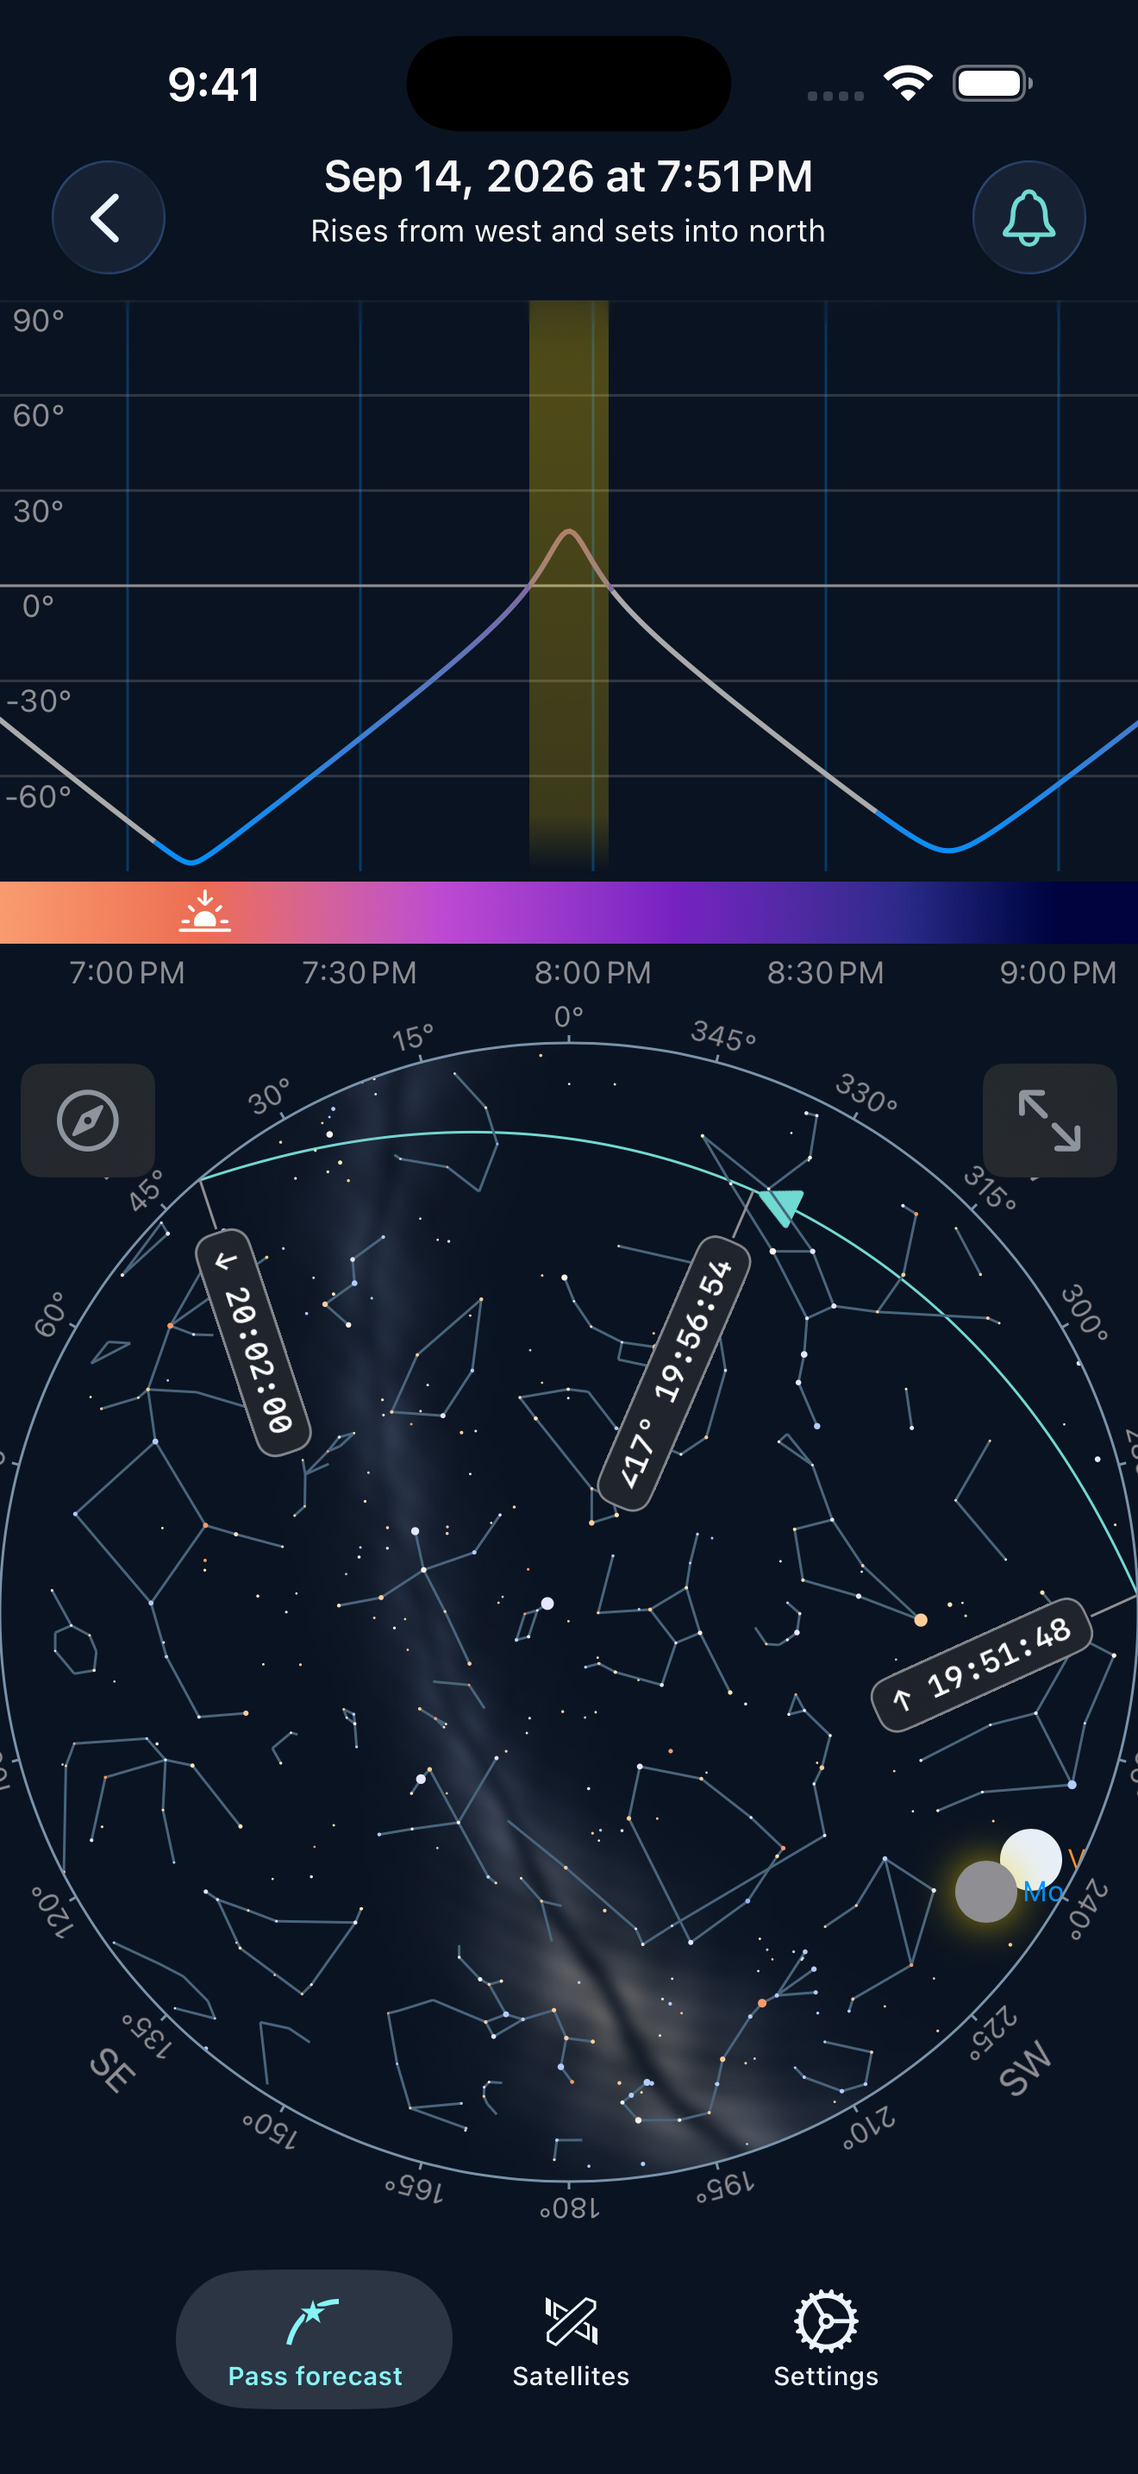
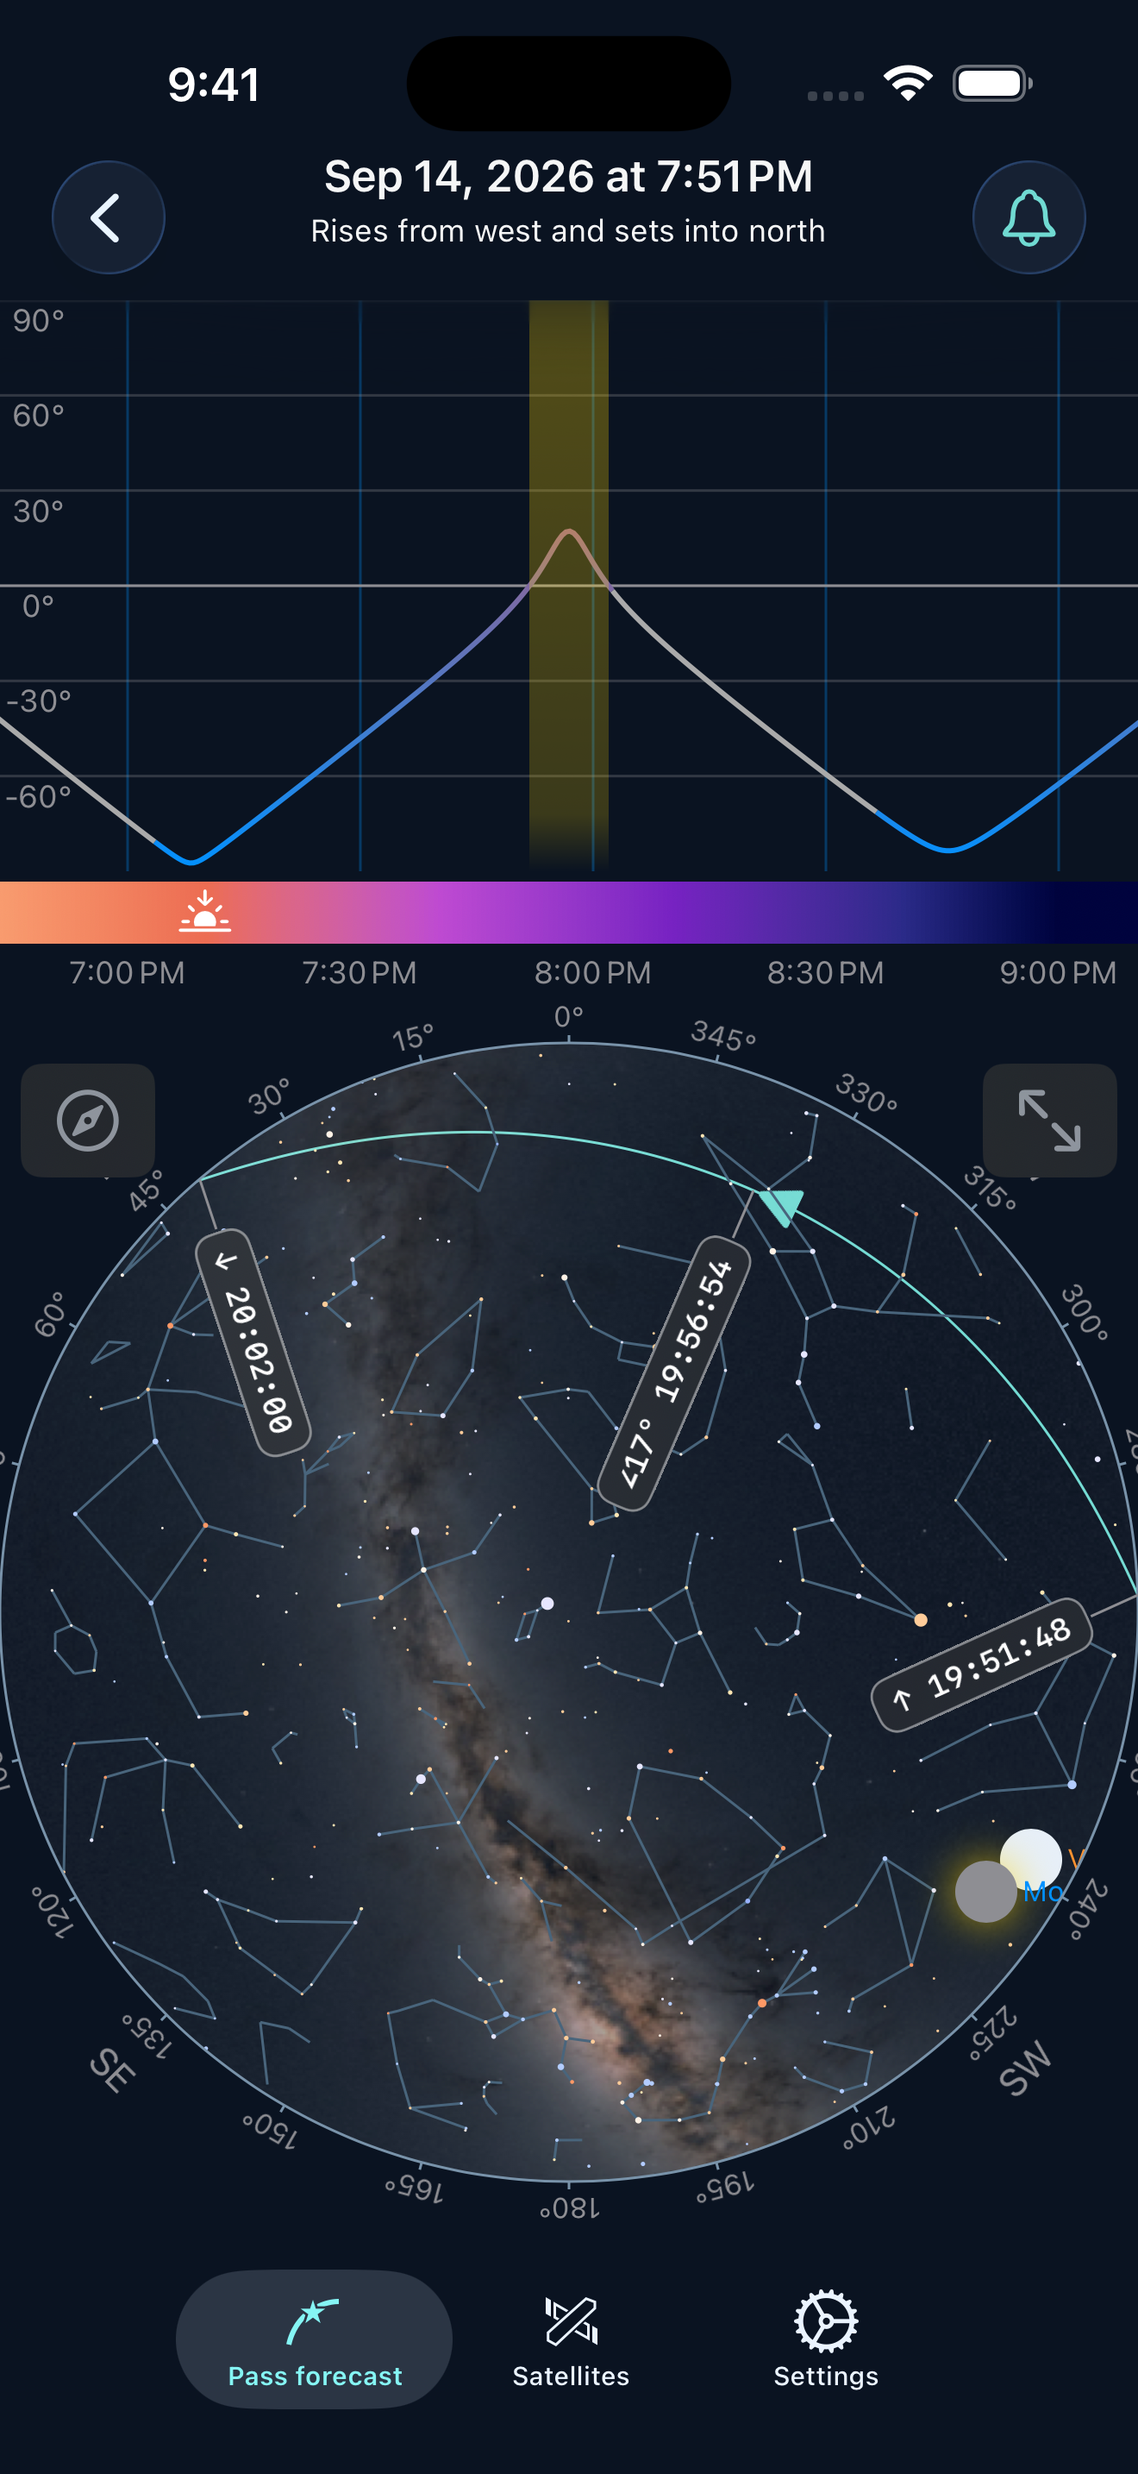
Project NASA Gaia Milky Way texture onto sky charts

Changed region(s): [[0.1864, 0.4034, 0.8386, 0.8999]]

diff --git a/Frameworks/SatelliteForecast/Impl/Sources/Views/SkyChart/MilkyWayBackground.swift b/Frameworks/SatelliteForecast/Impl/Sources/Views/SkyChart/MilkyWayBackground.swift
@@ -1,9 +1,10 @@
 import UIKit
+import ImageIO
 import simd
 import SatelliteKit
 
-/// A starless, illustrative diffuse sky in Galactic coordinates. This is not a
-/// photometric survey: only its celestial registration is astronomical.
+/// NASA/Goddard SVS Gaia background, without the separate bright-star layer.
+/// Faint source stars remain; this is not a model of observing visibility.
 enum MilkyWayBackground {
     // ICRS → Galactic rotation (Hipparcos canonical pole/node angles).
     // Reference: https://github.com/liberfa/erfa/blob/master/src/icrs2g.c
@@ -36,29 +37,66 @@ enum MilkyWayBackground {
         }
     }
 
-    /// Smooth, periodic texture on the celestial sphere: no points or baked-in stars.
-    static func radiance(_ direction: SIMD3<Double>) -> (intensity: Double, warmth: Double) {
-        let l = atan2(direction.y, direction.x)
-        let b = asin(max(-1, min(1, direction.z)))
-        let core = exp(-pow(l / 0.55, 2) - pow(b / 0.23, 2))
-        let broad = exp(-pow(b / 0.19, 2))
-        let narrow = exp(-pow(b / 0.075, 2))
-        // Integer longitude frequencies keep the ±π seam continuous.
-        let clouds = 0.70 + 0.16 * sin(9 * l + 13 * b + 1.8 * sin(3 * l))
-            + 0.09 * sin(23 * l - 31 * b + sin(7 * l))
-            + 0.05 * sin(47 * l + 67 * b)
-        let laneLatitude = b - 0.022 * sin(3 * l) - 0.012 * sin(11 * l)
-        let dust = exp(-pow(laneLatitude / 0.028, 2)) * (0.55 + 0.20 * cos(2 * l))
-        let glow = (0.20 * broad + 0.38 * narrow + 0.62 * core) * clouds * (1 - dust)
-        return (min(1, max(0, glow)), core)
+    /// NASA's Galactic plate carrée: center l=0, longitude increases leftward.
+    static func textureCoordinates(_ direction: SIMD3<Double>) -> SIMD2<Double> {
+        let u = 0.5 - atan2(direction.y, direction.x) / (2 * .pi)
+        return SIMD2(u - floor(u), 0.5 - asin(max(-1, min(1, direction.z))) / .pi)
     }
+
+    struct Texture {
+        let width: Int
+        let height: Int
+        let pixels: [UInt8]
+
+        init?(image: CGImage) {
+            let width = image.width
+            let height = image.height
+            self.width = width
+            self.height = height
+            var bytes = [UInt8](repeating: 0, count: width * height * 4)
+            let decoded = bytes.withUnsafeMutableBytes { buffer -> Bool in
+                guard let context = CGContext(data: buffer.baseAddress, width: width, height: height,
+                    bitsPerComponent: 8, bytesPerRow: width * 4,
+                    space: CGColorSpace(name: CGColorSpace.sRGB)!,
+                    bitmapInfo: CGImageAlphaInfo.premultipliedLast.rawValue) else { return false }
+                context.draw(image, in: CGRect(x: 0, y: 0, width: width, height: height))
+                return true
+            }
+            guard decoded else { return nil }
+            pixels = bytes
+        }
+
+        func sample(_ uv: SIMD2<Double>) -> SIMD3<Double> {
+            let x = (uv.x - floor(uv.x)) * Double(width) - 0.5
+            let y = max(0, min(Double(height - 1), uv.y * Double(height) - 0.5))
+            let x0 = Int(floor(x)), y0 = Int(floor(y))
+            let fx = x - floor(x), fy = y - floor(y)
+            func pixel(_ column: Int, _ row: Int) -> SIMD3<Double> {
+                let wrapped = (column % width + width) % width
+                let i = (min(row, height - 1) * width + wrapped) * 4
+                return SIMD3(Double(pixels[i]), Double(pixels[i + 1]), Double(pixels[i + 2])) / 255
+            }
+            let top = pixel(x0, y0) * (1 - fx) + pixel(x0 + 1, y0) * fx
+            let bottom = pixel(x0, y0 + 1) * (1 - fx) + pixel(x0 + 1, y0 + 1) * fx
+            return top * (1 - fy) + bottom * fy
+        }
+    }
+
+    // Lazy, immutable decode shared across renders. No I/O on animation frames.
+    static let texture: Texture? = {
+        guard let url = Bundle.module.url(forResource: "milkyway-galactic", withExtension: "jpg"),
+              let source = CGImageSourceCreateWithURL(url as CFURL, nil),
+              let image = CGImageSourceCreateImageAtIndex(source, 0, nil) else { return nil }
+        return Texture(image: image)
+    }()
 
     /// Bounded low-frequency raster. Rotation/zoom reuse the enclosing sky image;
     /// this runs with stars on ChartRenderer's actor, never per animation frame.
     static func image(size: CGSize, observer: LatLonAlt, julianDate: Double, dark: Bool) -> UIImage? {
-        guard size.width > 0, size.height > 0, julianDate.isFinite,
+        guard let texture, size.width.isFinite, size.height.isFinite,
+              size.width > 0, size.height > 0, julianDate.isFinite,
               observer.lat.isFinite, observer.lon.isFinite else { return nil }
-        let dimension = min(512, max(96, Int(max(size.width, size.height))))
+        let dimension = Int(min(512, max(96, max(size.width, size.height))))
         let scale = Double(dimension) / max(size.width, size.height)
         let width = max(1, Int(size.width * scale))
         let height = max(1, Int(size.height * scale))
@@ -70,10 +108,11 @@ enum MilkyWayBackground {
             for x in 0..<width {
                 let horizontal = SkyChartUtils.aziEle(at: CGPoint(x: Double(x) + 0.5, y: Double(y) + 0.5), in: rect)
                 guard horizontal.elev >= 0 else { continue }
-                let light = radiance(galactic(projection.equatorial(at: horizontal)))
-                let alpha = light.intensity * (dark ? 0.55 : 0.16)
-                let rgb = dark ? SIMD3(0.55 + 0.15 * light.warmth, 0.61 + 0.05 * light.warmth, 0.76 - 0.15 * light.warmth)
-                    : SIMD3(0.25, 0.30, 0.43)
+                let light = texture.sample(textureCoordinates(galactic(projection.equatorial(at: horizontal))))
+                let peak = max(light.x, max(light.y, light.z))
+                let alpha = peak * (dark ? 0.65 : 0.18)
+                // Convert black to transparency while preserving NASA's color ratios.
+                let rgb = dark ? light / max(peak, 1e-10) : SIMD3(0.25, 0.30, 0.43)
                 let i = (y * width + x) * 4
                 pixels[i] = UInt8(rgb.x * alpha * 255)
                 pixels[i + 1] = UInt8(rgb.y * alpha * 255)

diff --git a/Documentation/DesignReview/milky-way/index.html b/Documentation/DesignReview/milky-way/index.html
@@ -1,1 +1,1 @@
-<!doctype html><html lang="en"><meta charset="utf-8"><meta name="viewport" content="width=device-width,initial-scale=1"><title>Projected Milky Way — before and after</title><style>body{margin:32px;background:#0a1321;color:#eef4fa;font:16px system-ui}main{max-width:1150px;margin:auto}p{color:#a7b8cb;line-height:1.5}.grid{display:grid;grid-template-columns:1fr 1fr;gap:24px}img{width:100%;border-radius:20px}a{color:#70dad2}</style><main><h1>Projected Milky Way</h1><p>Diffuse Galactic glow and dust lanes, registered to the chart’s observer, time, and orientation. The background contains no baked-in stars; catalog stars remain separate. The glow is illustrative, not survey imagery.</p><h2>Full pass chart</h2><div class="grid"><div><h3>Before</h3><img alt="Full pass chart before" src="before/02-pass-chart.png"></div><div><h3>After</h3><a href="after/en-US/02-pass-chart.png"><img alt="Full pass chart with projected Milky Way" src="after/en-US/02-pass-chart.png"></a></div></div><h2>Pass-card previews</h2><div class="grid"><div><h3>Before</h3><img alt="Pass-card previews before" src="before/03-pass-list.png"></div><div><h3>After</h3><a href="after/en-US/03-pass-list.png"><img alt="Pass-card previews with projected Milky Way" src="after/en-US/03-pass-list.png"></a></div></div></main></html>
+<!doctype html><html lang="en"><meta charset="utf-8"><meta name="viewport" content="width=device-width,initial-scale=1"><title>Projected Milky Way — before and after</title><style>body{margin:32px;background:#0a1321;color:#eef4fa;font:16px system-ui}main{max-width:1500px;margin:auto}p{color:#a7b8cb;line-height:1.5}.grid{display:grid;grid-template-columns:repeat(3,1fr);gap:24px}img{width:100%;border-radius:20px}a{color:#70dad2}@media(max-width:700px){.grid{grid-template-columns:1fr}body{margin:16px}}</style><main><h1>Projected Milky Way</h1><p>NASA’s Gaia background, registered to the chart’s observer, time, and orientation. Bright foreground stars are excluded; downsampling softens the remaining faint stars. Catalog stars render separately above the background. <a href="https://svs.gsfc.nasa.gov/4851/">NASA/Goddard SVS · ESA/Gaia/DPAC</a>.</p><h2>Full pass chart</h2><div class="grid"><div><h3>Before</h3><img alt="Full pass chart before" src="before/02-pass-chart.png"></div><div><h3>Procedural draft</h3><img alt="Previous procedural background" src="procedural/02-pass-chart.png"></div><div><h3>NASA background</h3><a href="after/en-US/02-pass-chart.png"><img alt="Full pass chart with projected Milky Way" src="after/en-US/02-pass-chart.png"></a></div></div><h2>Pass-card previews</h2><div class="grid"><div><h3>Before</h3><img alt="Pass-card previews before" src="before/03-pass-list.png"></div><div><h3>Procedural draft</h3><img alt="Previous procedural background" src="procedural/03-pass-list.png"></div><div><h3>NASA background</h3><a href="after/en-US/03-pass-list.png"><img alt="Pass-card previews with projected Milky Way" src="after/en-US/03-pass-list.png"></a></div></div></main></html>

diff --git a/SatelliteForecastTests/NativeArchitectureTests.swift b/SatelliteForecastTests/NativeArchitectureTests.swift
@@ -165,13 +165,32 @@ final class MilkyWayProjectionTests: XCTestCase {
         }
     }
 
-    func testDiffuseTextureIsPeriodicAndConcentratedOnPlane() {
-        let onPlane = MilkyWayBackground.radiance(SIMD3(1, 0, 0)).intensity
-        let atPole = MilkyWayBackground.radiance(SIMD3(0, 0, 1)).intensity
-        XCTAssertGreaterThan(onPlane, atPole + 0.1)
-        let left = MilkyWayBackground.radiance(SIMD3(-1, 1e-10, 0)).intensity
-        let right = MilkyWayBackground.radiance(SIMD3(-1, -1e-10, 0)).intensity
-        XCTAssertEqual(left, right, accuracy: 1e-8)
+    func testNASATextureRegistrationAndSeam() throws {
+        let uv = MilkyWayBackground.textureCoordinates
+        XCTAssertEqual(uv(SIMD3(1, 0, 0)), SIMD2(0.5, 0.5))
+        XCTAssertEqual(uv(SIMD3(0, 1, 0)), SIMD2(0.25, 0.5))
+        XCTAssertEqual(uv(SIMD3(0, -1, 0)), SIMD2(0.75, 0.5))
+        XCTAssertEqual(uv(SIMD3(0, 0, 1)).y, 0)
+        XCTAssertEqual(uv(SIMD3(0, 0, -1)).y, 1)
+        let texture = try XCTUnwrap(MilkyWayBackground.texture)
+        XCTAssertEqual(texture.width, 2048)
+        XCTAssertEqual(texture.height, 1024)
+        XCTAssertLessThan(simd_length(texture.sample(SIMD2(1 - 1e-10, 0.5)) - texture.sample(SIMD2(1e-10, 0.5))), 1e-6)
+        XCTAssertGreaterThan(simd_length(texture.sample(SIMD2(0.5, 0.45))), simd_length(texture.sample(SIMD2(0.5, 0))))
+    }
+
+    func testTextureDecodePreservesNorthAndSouthAndWrapsLongitude() throws {
+        let bytes: [UInt8] = [255, 0, 0, 255, 0, 255, 0, 255, 0, 0, 255, 255, 255, 255, 255, 255]
+        let provider = try XCTUnwrap(CGDataProvider(data: Data(bytes) as CFData))
+        let image = try XCTUnwrap(CGImage(width: 2, height: 2, bitsPerComponent: 8, bitsPerPixel: 32,
+            bytesPerRow: 8, space: CGColorSpace(name: CGColorSpace.sRGB)!,
+            bitmapInfo: CGBitmapInfo(rawValue: CGImageAlphaInfo.premultipliedLast.rawValue),
+            provider: provider, decode: nil, shouldInterpolate: false, intent: .defaultIntent))
+        let texture = try XCTUnwrap(MilkyWayBackground.Texture(image: image))
+        XCTAssertEqual(texture.sample(SIMD2(0.25, 0)), SIMD3(1, 0, 0))
+        XCTAssertEqual(texture.sample(SIMD2(0.25, 1)), SIMD3(0, 0, 1))
+        XCTAssertEqual(texture.sample(SIMD2(0, 0)), SIMD3(0.5, 0.5, 0))
+        XCTAssertEqual(texture.sample(SIMD2(1, 0)), texture.sample(SIMD2(0, 0)))
     }
 
     func testRasterIsBoundedTransparentOutsideHorizonAndDeterministic() throws {

diff --git a/Frameworks/SatelliteForecast/Impl/Sources/Views/SettingsOverview/SettingsOverviewView.swift b/Frameworks/SatelliteForecast/Impl/Sources/Views/SettingsOverview/SettingsOverviewView.swift
@@ -251,6 +251,11 @@ public struct SettingsOverviewViewImpl: SettingsOverviewView {
                         nightModeCell
                     } header: {
                         EmptyView()
+                    } footer: {
+                        Link(destination: URL(string: "https://svs.gsfc.nasa.gov/4851/")!) {
+                            Text(verbatim: "Milky Way: NASA/Goddard SVS · ESA/Gaia/DPAC")
+                                .font(.caption2)
+                        }
                     }
                 }
                 .padding()

diff --git a/Documentation/DesignReview/milky-way/README.md b/Documentation/DesignReview/milky-way/README.md
@@ -1,12 +1,14 @@
 # Projected Milky Way
 
-A starless procedural illustration of diffuse Galactic light, including a central bulge and dust lanes. It is not a survey image or a model of actual observing visibility/light pollution.
+NASA’s [Deep Star Maps 2020](https://svs.gsfc.nasa.gov/4851/) Gaia Milky Way background replaces the procedural illustration. Credit: NASA/Goddard Space Flight Center Scientific Visualization Studio; Gaia DR2: ESA/Gaia/DPAC. This source omits the separate bright-star foreground, but still contains faint stars. It is not a model of actual observing visibility/light pollution.
 
 The background uses the canonical Hipparcos ICRS-to-Galactic rotation, documented by [ERFA](https://github.com/liberfa/erfa/blob/master/src/icrs2g.c). Every raster pixel is inverse-projected through the chart’s azimuth/elevation mapping, then transformed using the same local mean sidereal time as SatelliteKit’s star positions. East remains left in the north-up chart. The image shares the existing sky rotation, zoom, time refresh, and horizon clipping.
 
-The diffuse image contains no point sources; catalog stars and constellation lines remain separate and draw above it. The raster is bounded to 512 pixels on its longest edge (at most 1 MiB of temporary RGBA data), generated on the existing ChartRenderer actor, with cancellation checks per row. Light appearance uses lower contrast. No texture download or new dependency is required.
+The corrected 2021 Galactic EXR is downsampled in linear light to 2048 × 1024, mildly blurred, converted to sRGB, and encoded as a 257 KiB JPEG. Reproduce it with `sh scripts/prepare-milky-way.sh` (curl, ffmpeg, ImageMagick). The source checksum is pinned in that script. Longitude increases leftward, Galactic center is at the image center, north is at the top. Bilinear sampling wraps longitude and clamps latitude. Tests check decoding orientation with an asymmetric synthetic image.
 
-Validation: all 42 behavior/projection tests passed on iPhone 17 Pro / iOS 26.5. Tests cover Galactic center and pole registration, agreement with catalog-star projection at multiple latitudes/times, longitude seam continuity, horizon transparency, deterministic rendering, and the raster size cap. The full pass chart and pass-card previews were captured and visually checked on iPhone 17 Pro Max / iOS 26.5 using the existing fixed September 2026 fixtures.
+Catalog stars and constellation lines draw above the background. Black source pixels become transparent while preserving the source color ratios. The source decodes once into an immutable 8 MiB RGBA cache. The output raster is bounded to 512 pixels on its longest edge (at most 1 MiB temporary RGBA), generated on the existing ChartRenderer actor, with cancellation checks per row. Light appearance uses a subtler dark tint. No runtime download or new dependency is required.
+
+Validation: all 43 behavior/projection tests passed on iPhone 17 Pro / iOS 26.5. Tests cover Galactic center and pole registration, agreement with catalog-star projection at multiple latitudes/times, longitude seam continuity, horizon transparency, deterministic rendering, and the raster size cap. The broader run also exposed bundled satellite catalog write access causing SQLite I/O failures; opening that immutable catalog read-only restored the full suite. The full pass chart and pass-card previews were captured and visually checked on iPhone 17 Pro Max / iOS 26.5 using the existing fixed September 2026 fixtures.
 
 Reproduce the comparison’s after images:
 
@@ -14,4 +16,4 @@ Reproduce the comparison’s after images:
 python3 scripts/capture-store-screenshots.py --locales en-US --screens 02-pass-chart 03-pass-list --output Documentation/DesignReview/milky-way/after
 ```
 
-The before images are copies of the preceding release’s matching fixtures. MapKit globe imagery can vary between runs. App Store release screenshots and TestFlight build 2 are unchanged by this feature branch.
+The procedural draft is preserved for comparison. The before images are copies of the preceding release’s matching fixtures. MapKit globe imagery can vary between runs. App Store release screenshots and TestFlight build 2 are unchanged by this feature branch.
